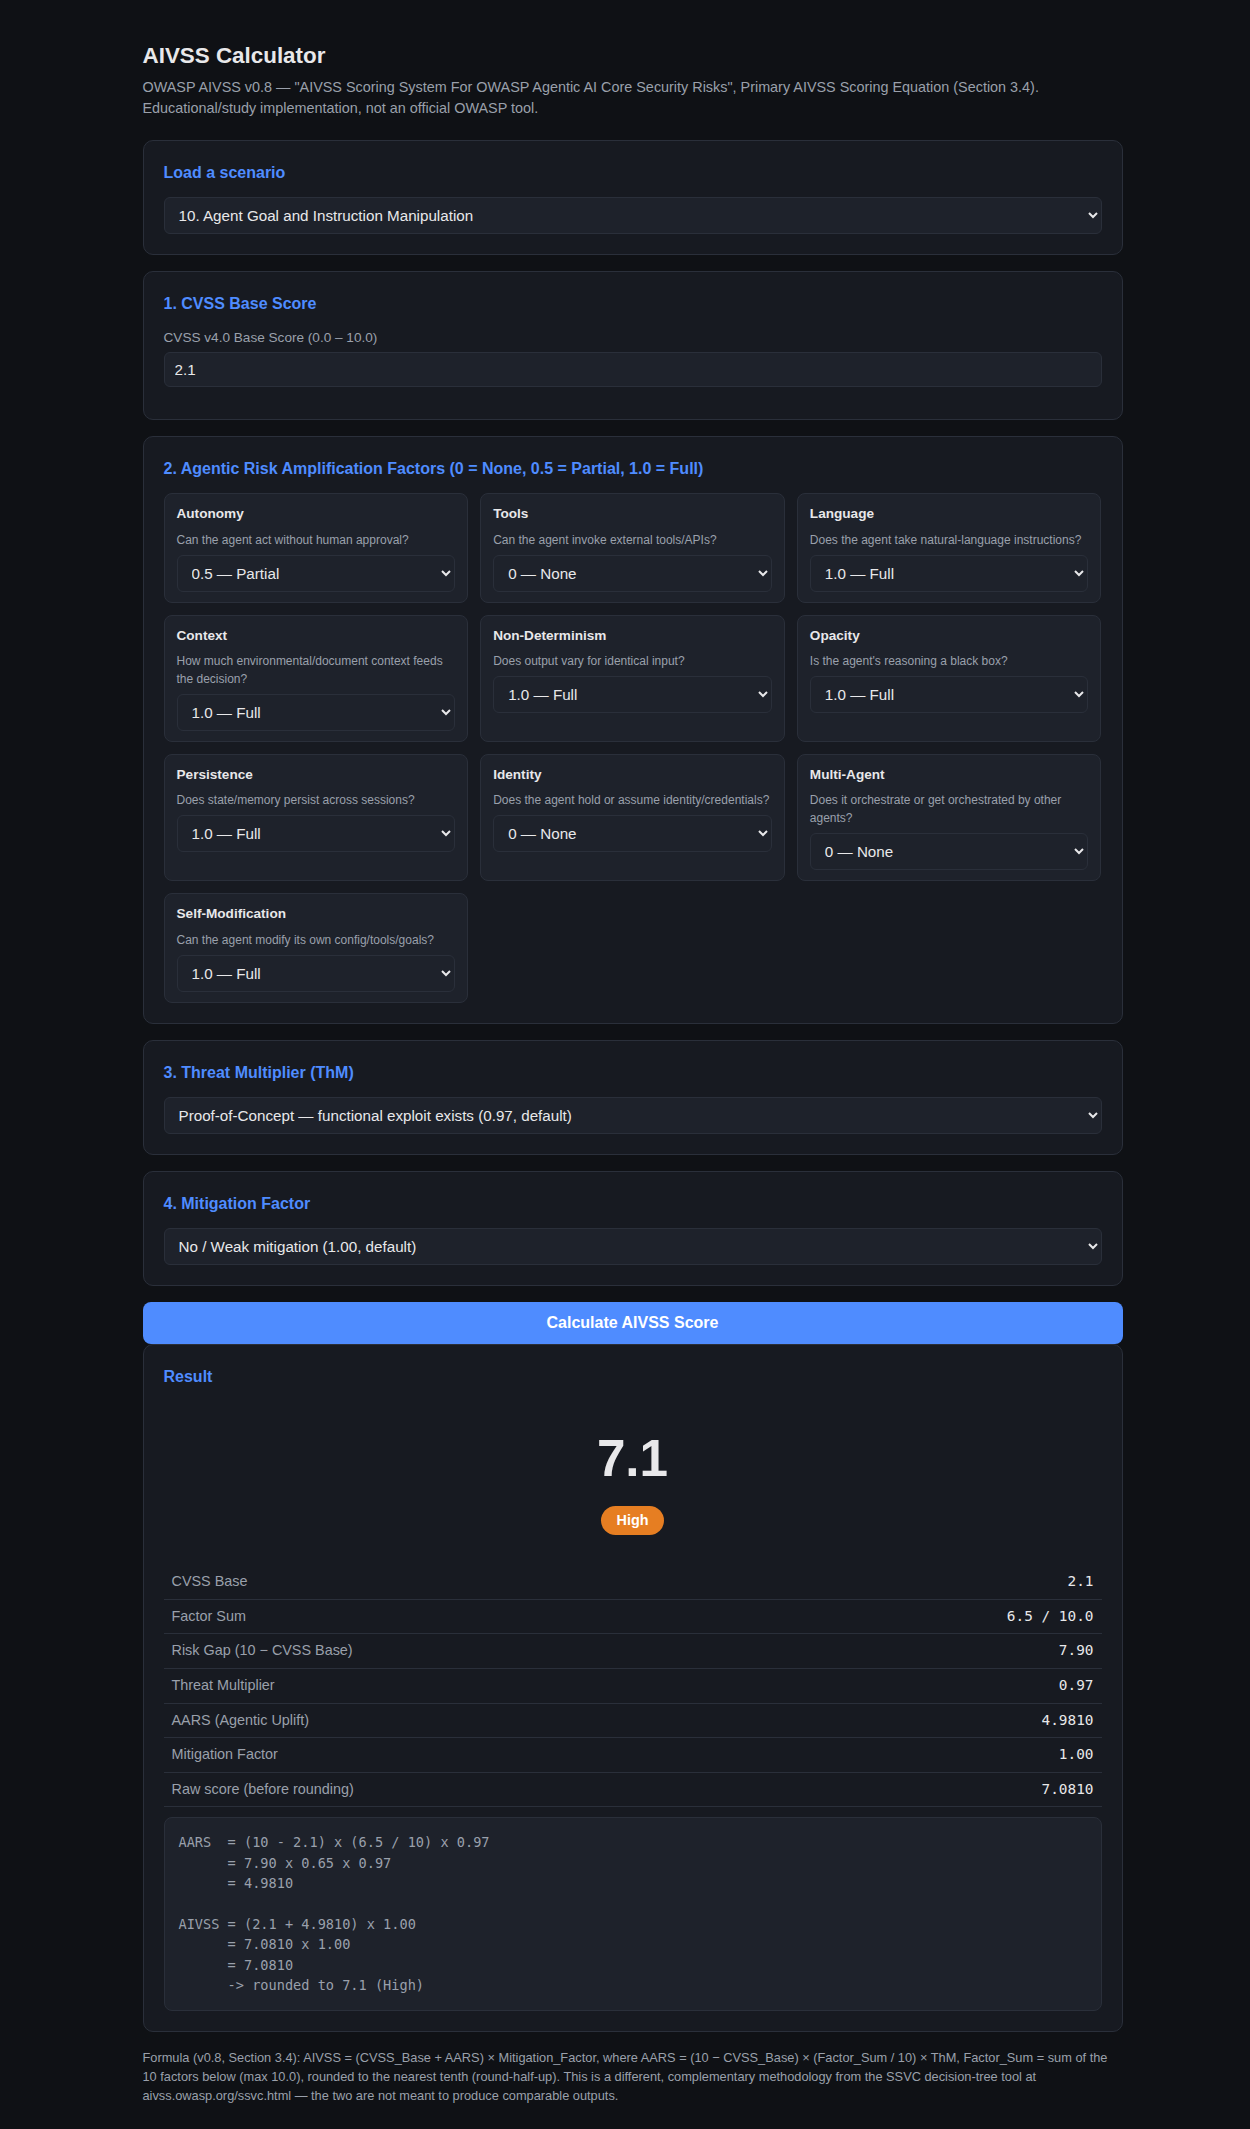
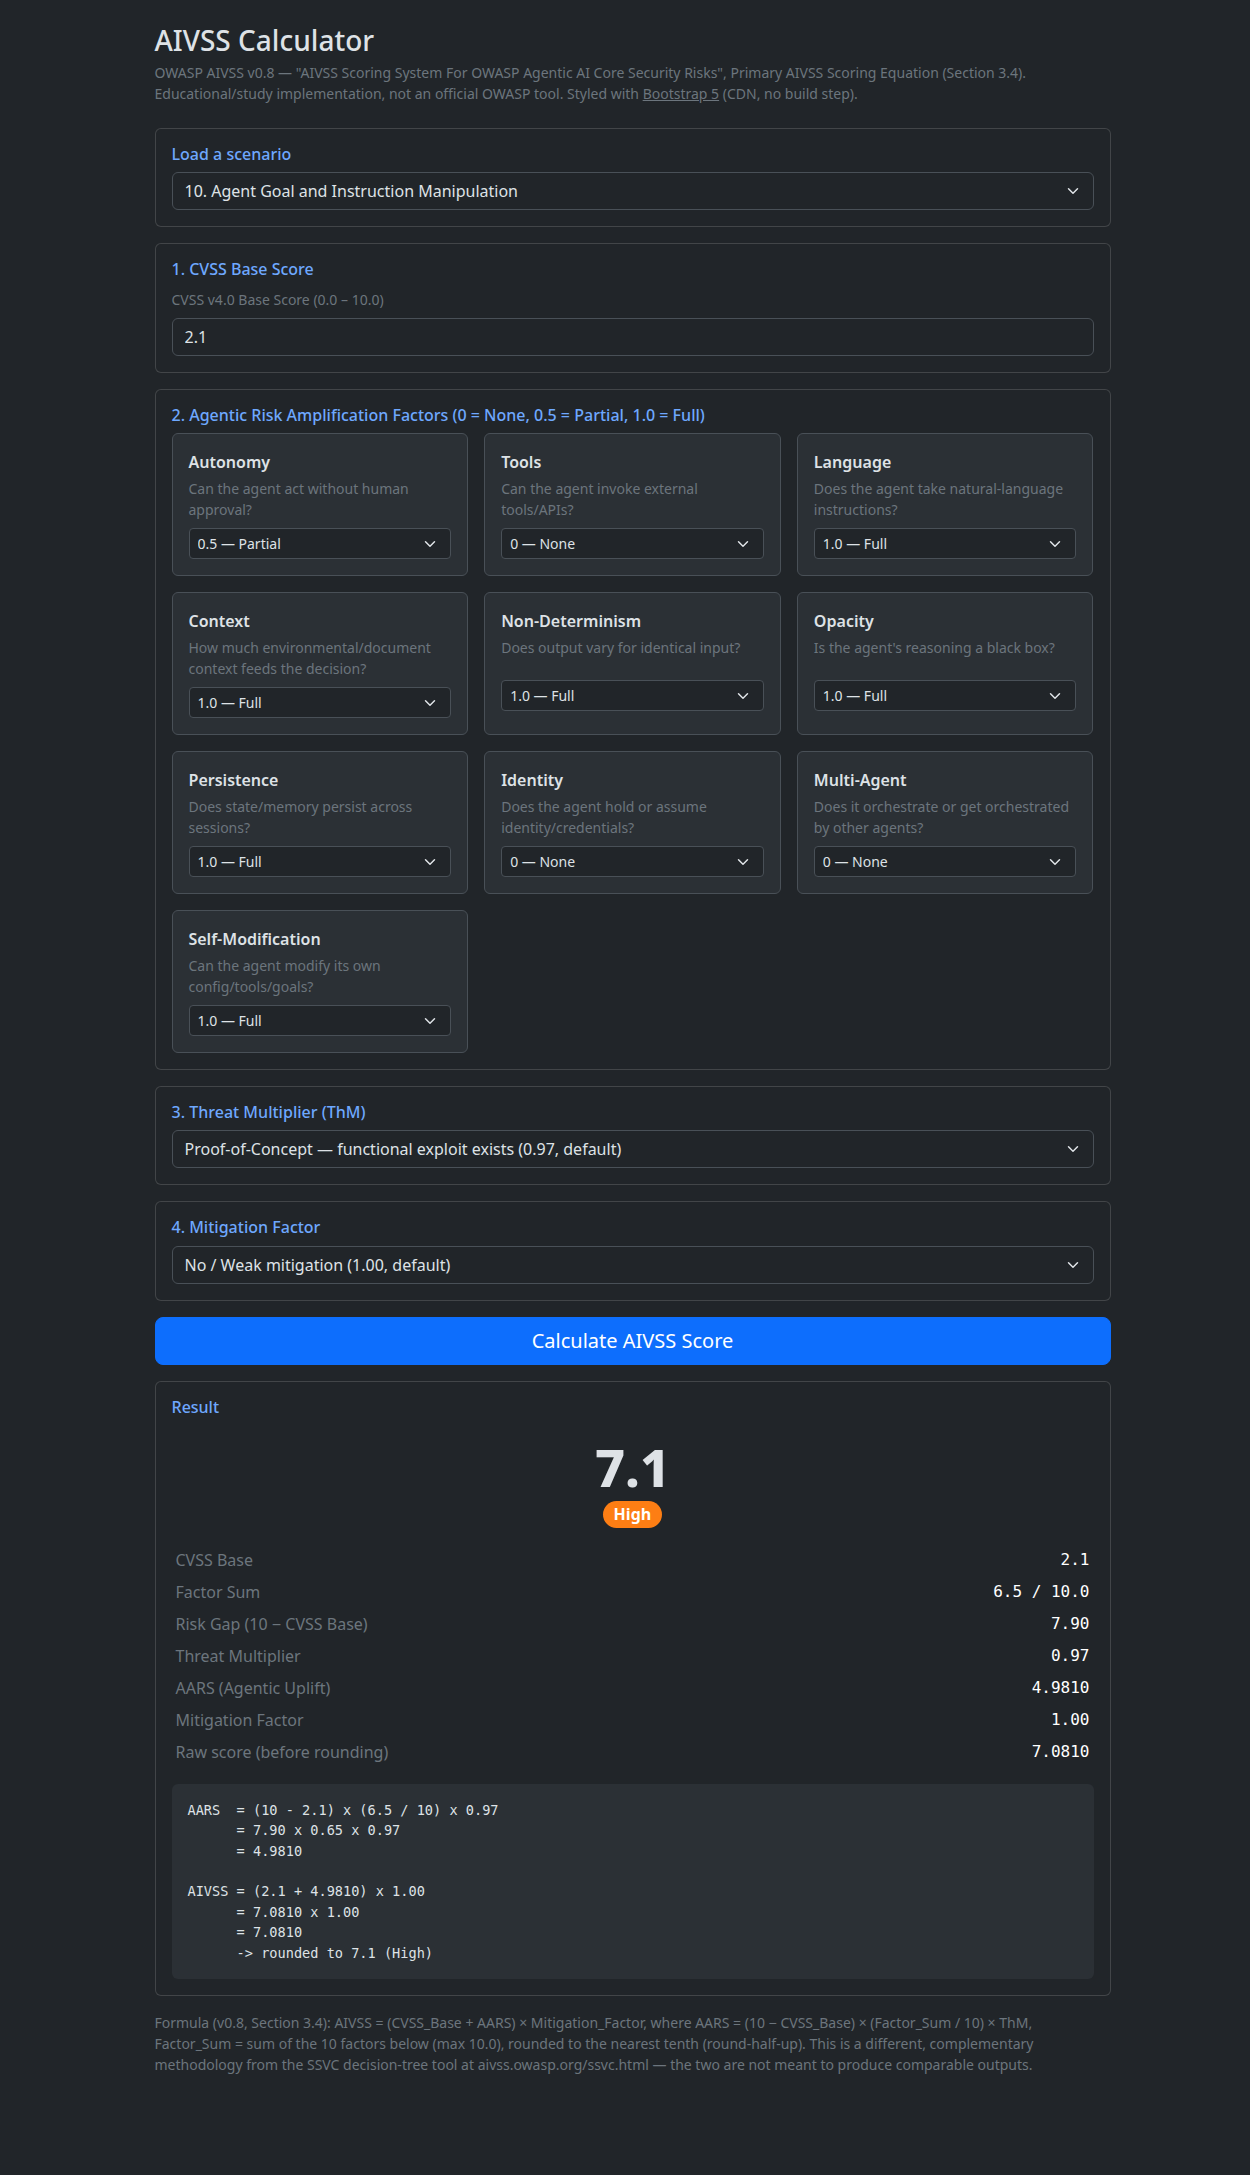
Restyle calculator/index.html with Bootstrap 5
Replaced hand-written custom CSS with Bootstrap 5 (CDN, no build step --
still a single static file, no npm/node_modules) for cards, form controls,
grid layout, badges, and the results table. calculate() and all formula
logic untouched.

Re-verified after the refactor: all 10 official scenarios still 10/10
match, and both manual-UI custom-input tests (7.1 High / 0.0 None) still
produce identical results -- confirming the restyle only changed markup,
not behavior. Recaptured all 5 index.html screenshots (01-03, 12-13) to
show the current design; screenshots unrelated to index.html (reference
site, SSVC, Streamlit, terminal captures) are untouched.

Changed region(s): [[0.0936, 0.0, 0.9048, 0.744], [0.1248, 0.713, 0.8424, 0.992], [0.8424, 0.713, 0.8736, 0.837]]

diff --git a/calculator/index.html b/calculator/index.html
@@ -1,143 +1,114 @@
 <!DOCTYPE html>
-<html lang="en">
+<html lang="en" data-bs-theme="dark">
 <head>
 <meta charset="UTF-8">
 <meta name="viewport" content="width=device-width, initial-scale=1.0">
 <title>AIVSS Calculator — Agentic AI Core Security Risks v0.8</title>
+<link href="https://cdn.jsdelivr.net/npm/bootstrap@5.3.3/dist/css/bootstrap.min.css" rel="stylesheet">
 <style>
-  :root {
-    --bg: #0f1115; --panel: #171a21; --panel2: #1e222b; --border: #2a2f3a;
-    --text: #e8e8ea; --dim: #9aa0ab; --accent: #4f8cff; --green: #2ecc71;
-    --yellow: #f1c40f; --orange: #e67e22; --red: #e74c3c;
-  }
-  * { box-sizing: border-box; }
-  body {
-    background: var(--bg); color: var(--text); font-family: -apple-system, "Segoe UI", Roboto, sans-serif;
-    margin: 0; padding: 24px; line-height: 1.5;
-  }
-  .wrap { max-width: 980px; margin: 0 auto; }
-  h1 { font-size: 1.4rem; margin-bottom: 4px; }
-  .subtitle { color: var(--dim); font-size: 0.9rem; margin-bottom: 20px; }
-  .card {
-    background: var(--panel); border: 1px solid var(--border); border-radius: 10px;
-    padding: 20px; margin-bottom: 16px;
-  }
-  .card h2 { font-size: 1rem; margin: 0 0 12px 0; color: var(--accent); }
-  label { display: block; font-size: 0.85rem; color: var(--dim); margin-bottom: 4px; }
-  select, input[type=number] {
-    background: var(--panel2); color: var(--text); border: 1px solid var(--border);
-    border-radius: 6px; padding: 8px 10px; font-size: 0.95rem; width: 100%;
-  }
-  .row { display: flex; gap: 16px; flex-wrap: wrap; margin-bottom: 12px; }
-  .row > div { flex: 1; min-width: 220px; }
-  .factors-grid { display: grid; grid-template-columns: repeat(auto-fill, minmax(230px, 1fr)); gap: 12px; }
-  .factor-item { background: var(--panel2); border: 1px solid var(--border); border-radius: 8px; padding: 10px 12px; }
-  .factor-item label { color: var(--text); font-weight: 600; margin-bottom: 6px; }
-  .factor-item .desc { color: var(--dim); font-size: 0.75rem; margin-bottom: 6px; }
-  button#calcBtn {
-    background: var(--accent); color: white; border: none; border-radius: 8px;
-    padding: 12px 24px; font-size: 1rem; font-weight: 600; cursor: pointer; width: 100%;
-  }
-  button#calcBtn:hover { filter: brightness(1.1); }
-  #results { display: none; }
-  .score-display { text-align: center; padding: 20px 0; }
-  .score-value { font-size: 3.2rem; font-weight: 800; }
-  .score-band {
-    display: inline-block; padding: 4px 16px; border-radius: 20px; font-weight: 700;
-    font-size: 0.9rem; margin-top: 8px;
-  }
-  .band-critical { background: var(--red); color: white; }
-  .band-high { background: var(--orange); color: white; }
-  .band-medium { background: var(--yellow); color: #222; }
-  .band-low { background: var(--green); color: #133; }
-  .band-none { background: #444; color: #ccc; }
-  table.breakdown { width: 100%; border-collapse: collapse; margin-top: 10px; }
-  table.breakdown td { padding: 6px 8px; border-bottom: 1px solid var(--border); font-size: 0.9rem; }
-  table.breakdown td:first-child { color: var(--dim); }
-  table.breakdown td:last-child { text-align: right; font-family: "SF Mono", Consolas, monospace; }
+  /* Only overrides Bootstrap can't express as utility classes -- everything
+     else (cards, grid, forms, badges, table) is stock Bootstrap 5. */
+  body { padding-bottom: 60px; }
+  .score-value { font-size: 3.25rem; font-weight: 800; line-height: 1; }
+  .badge-critical { background-color: #dc3545 !important; }
+  .badge-high     { background-color: #fd7e14 !important; }
+  .badge-medium   { background-color: #ffc107 !important; color: #222 !important; }
+  .badge-low      { background-color: #198754 !important; }
+  .badge-none     { background-color: #6c757d !important; }
   .formula-box {
-    background: var(--panel2); border: 1px solid var(--border); border-radius: 8px;
-    padding: 14px; font-family: "SF Mono", Consolas, monospace; font-size: 0.85rem;
-    color: var(--dim); margin-top: 10px; white-space: pre-wrap;
+    font-family: "SF Mono", Consolas, monospace; font-size: .85rem;
+    white-space: pre-wrap;
   }
-  .note { font-size: 0.8rem; color: var(--dim); margin-top: 16px; }
+  .breakdown-table td:last-child { font-family: "SF Mono", Consolas, monospace; text-align: right; }
 </style>
 </head>
 <body>
-<div class="wrap">
-  <h1>AIVSS Calculator</h1>
-  <div class="subtitle">
+<div class="container py-4" style="max-width: 980px;">
+
+  <h1 class="h3 mb-1">AIVSS Calculator</h1>
+  <p class="text-secondary small mb-4">
     OWASP AIVSS v0.8 — "AIVSS Scoring System For OWASP Agentic AI Core Security Risks",
     Primary AIVSS Scoring Equation (Section 3.4). Educational/study implementation, not an official OWASP tool.
+    Styled with <a href="https://getbootstrap.com/" class="link-secondary" target="_blank" rel="noopener">Bootstrap 5</a> (CDN, no build step).
+  </p>
+
+  <div class="card mb-3">
+    <div class="card-body">
+      <h2 class="h6 card-title text-primary-emphasis">Load a scenario</h2>
+      <select id="scenarioSelect" class="form-select">
+        <option value="">— custom input —</option>
+      </select>
+    </div>
   </div>
 
-  <div class="card">
-    <h2>Load a scenario</h2>
-    <select id="scenarioSelect">
-      <option value="">— custom input —</option>
-    </select>
+  <div class="card mb-3">
+    <div class="card-body">
+      <h2 class="h6 card-title text-primary-emphasis">1. CVSS Base Score</h2>
+      <label for="cvssBase" class="form-label small text-secondary">CVSS v4.0 Base Score (0.0 – 10.0)</label>
+      <input type="number" id="cvssBase" class="form-control" min="0" max="10" step="0.1" value="5.0">
+    </div>
   </div>
 
-  <div class="card">
-    <h2>1. CVSS Base Score</h2>
-    <div class="row">
-      <div>
-        <label for="cvssBase">CVSS v4.0 Base Score (0.0 – 10.0)</label>
-        <input type="number" id="cvssBase" min="0" max="10" step="0.1" value="5.0">
+  <div class="card mb-3">
+    <div class="card-body">
+      <h2 class="h6 card-title text-primary-emphasis">2. Agentic Risk Amplification Factors (0 = None, 0.5 = Partial, 1.0 = Full)</h2>
+      <div class="row g-3" id="factorsGrid"></div>
+    </div>
+  </div>
+
+  <div class="card mb-3">
+    <div class="card-body">
+      <h2 class="h6 card-title text-primary-emphasis">3. Threat Multiplier (ThM)</h2>
+      <select id="threatMultiplier" class="form-select">
+        <option value="1.00">Attacked — actively exploited in the wild (1.00)</option>
+        <option value="0.97" selected>Proof-of-Concept — functional exploit exists (0.97, default)</option>
+        <option value="0.50">Unreported — theoretical only (0.50)</option>
+      </select>
+    </div>
+  </div>
+
+  <div class="card mb-3">
+    <div class="card-body">
+      <h2 class="h6 card-title text-primary-emphasis">4. Mitigation Factor</h2>
+      <select id="mitigationFactor" class="form-select">
+        <option value="1.00" selected>No / Weak mitigation (1.00, default)</option>
+        <option value="0.83">Partial mitigation (0.83)</option>
+        <option value="0.67">Strong mitigation (0.67)</option>
+      </select>
+    </div>
+  </div>
+
+  <button id="calcBtn" class="btn btn-primary btn-lg w-100 mb-3" onclick="calculate()">Calculate AIVSS Score</button>
+
+  <div class="card mb-3 d-none" id="results">
+    <div class="card-body">
+      <h2 class="h6 card-title text-primary-emphasis">Result</h2>
+      <div class="text-center py-3">
+        <div class="score-value" id="scoreValue">–</div>
+        <span class="badge rounded-pill fs-6 mt-2" id="scoreBand">–</span>
       </div>
+      <table class="table table-sm table-borderless breakdown-table">
+        <tbody>
+          <tr><td class="text-secondary">CVSS Base</td><td id="outCvssBase"></td></tr>
+          <tr><td class="text-secondary">Factor Sum</td><td id="outFactorSum"></td></tr>
+          <tr><td class="text-secondary">Risk Gap (10 − CVSS Base)</td><td id="outRiskGap"></td></tr>
+          <tr><td class="text-secondary">Threat Multiplier</td><td id="outThM"></td></tr>
+          <tr><td class="text-secondary">AARS (Agentic Uplift)</td><td id="outAars"></td></tr>
+          <tr><td class="text-secondary">Mitigation Factor</td><td id="outMitigation"></td></tr>
+          <tr><td class="text-secondary">Raw score (before rounding)</td><td id="outRaw"></td></tr>
+        </tbody>
+      </table>
+      <pre class="formula-box bg-body-tertiary rounded p-3 mb-0" id="formulaBox"></pre>
     </div>
   </div>
 
-  <div class="card">
-    <h2>2. Agentic Risk Amplification Factors (0 = None, 0.5 = Partial, 1.0 = Full)</h2>
-    <div class="factors-grid" id="factorsGrid"></div>
-  </div>
-
-  <div class="card">
-    <h2>3. Threat Multiplier (ThM)</h2>
-    <select id="threatMultiplier">
-      <option value="1.00">Attacked — actively exploited in the wild (1.00)</option>
-      <option value="0.97" selected>Proof-of-Concept — functional exploit exists (0.97, default)</option>
-      <option value="0.50">Unreported — theoretical only (0.50)</option>
-    </select>
-  </div>
-
-  <div class="card">
-    <h2>4. Mitigation Factor</h2>
-    <select id="mitigationFactor">
-      <option value="1.00" selected>No / Weak mitigation (1.00, default)</option>
-      <option value="0.83">Partial mitigation (0.83)</option>
-      <option value="0.67">Strong mitigation (0.67)</option>
-    </select>
-  </div>
-
-  <button id="calcBtn" onclick="calculate()">Calculate AIVSS Score</button>
-
-  <div class="card" id="results">
-    <h2>Result</h2>
-    <div class="score-display">
-      <div class="score-value" id="scoreValue">–</div>
-      <div class="score-band" id="scoreBand">–</div>
-    </div>
-    <table class="breakdown">
-      <tr><td>CVSS Base</td><td id="outCvssBase"></td></tr>
-      <tr><td>Factor Sum</td><td id="outFactorSum"></td></tr>
-      <tr><td>Risk Gap (10 − CVSS Base)</td><td id="outRiskGap"></td></tr>
-      <tr><td>Threat Multiplier</td><td id="outThM"></td></tr>
-      <tr><td>AARS (Agentic Uplift)</td><td id="outAars"></td></tr>
-      <tr><td>Mitigation Factor</td><td id="outMitigation"></td></tr>
-      <tr><td>Raw score (before rounding)</td><td id="outRaw"></td></tr>
-    </table>
-    <div class="formula-box" id="formulaBox"></div>
-  </div>
-
-  <div class="note">
+  <p class="text-secondary small">
     Formula (v0.8, Section 3.4): AIVSS = (CVSS_Base + AARS) × Mitigation_Factor, where
     AARS = (10 − CVSS_Base) × (Factor_Sum / 10) × ThM, Factor_Sum = sum of the 10 factors below
     (max 10.0), rounded to the nearest tenth (round-half-up). This is a different, complementary
     methodology from the SSVC decision-tree tool at aivss.owasp.org/ssvc.html — the two are not
     meant to produce comparable outputs.
-  </div>
+  </p>
 </div>
 
 <script>
@@ -190,17 +161,19 @@ const SCENARIOS = [
 function buildFactorsGrid() {
   const grid = document.getElementById("factorsGrid");
   FACTORS.forEach(([key, label, desc]) => {
-    const div = document.createElement("div");
-    div.className = "factor-item";
-    div.innerHTML = `
-      <label for="f_${key}">${label}</label>
-      <div class="desc">${desc}</div>
-      <select id="f_${key}">
-        <option value="0">0 — None</option>
-        <option value="0.5">0.5 — Partial</option>
-        <option value="1">1.0 — Full</option>
-      </select>`;
-    grid.appendChild(div);
+    const col = document.createElement("div");
+    col.className = "col-md-4";
+    col.innerHTML = `
+      <div class="border rounded p-3 h-100 bg-body-tertiary">
+        <label for="f_${key}" class="form-label fw-semibold mb-1">${label}</label>
+        <div class="text-secondary small mb-2" style="min-height: 2.5em;">${desc}</div>
+        <select id="f_${key}" class="form-select form-select-sm">
+          <option value="0">0 — None</option>
+          <option value="0.5">0.5 — Partial</option>
+          <option value="1">1.0 — Full</option>
+        </select>
+      </div>`;
+    grid.appendChild(col);
   });
 }
 
@@ -231,11 +204,11 @@ function roundHalfUp(value, decimals) {
 }
 
 function severityBand(score) {
-  if (score >= 9.0) return ["Critical", "band-critical"];
-  if (score >= 7.0) return ["High", "band-high"];
-  if (score >= 4.0) return ["Medium", "band-medium"];
-  if (score > 0.0) return ["Low", "band-low"];
-  return ["None", "band-none"];
+  if (score >= 9.0) return ["Critical", "badge-critical"];
+  if (score >= 7.0) return ["High", "badge-high"];
+  if (score >= 4.0) return ["Medium", "badge-medium"];
+  if (score > 0.0) return ["Low", "badge-low"];
+  return ["None", "badge-none"];
 }
 
 function calculate() {
@@ -254,11 +227,11 @@ function calculate() {
   const score = roundHalfUp(raw, 1);
   const [bandLabel, bandClass] = severityBand(score);
 
-  document.getElementById("results").style.display = "block";
+  document.getElementById("results").classList.remove("d-none");
   document.getElementById("scoreValue").textContent = score.toFixed(1);
   const bandEl = document.getElementById("scoreBand");
   bandEl.textContent = bandLabel;
-  bandEl.className = "score-band " + bandClass;
+  bandEl.className = "badge rounded-pill fs-6 mt-2 " + bandClass;
 
   document.getElementById("outCvssBase").textContent = cvssBase.toFixed(1);
   document.getElementById("outFactorSum").textContent = factorSum.toFixed(1) + " / 10.0";

diff --git a/calculator/README.md b/calculator/README.md
@@ -3,9 +3,11 @@
 Two ways to run this repo's `aivss_kg.calculate_aivss()` formula as a web
 page:
 
-1. **`index.html`** — a self-contained static page, zero dependencies. The
-   formula is **reimplemented in JavaScript** (has to be, since a static
-   page can't import Python) — kept in sync by hand.
+1. **`index.html`** — a self-contained static page, styled with
+   **[Bootstrap 5](https://getbootstrap.com/)** (loaded from `cdn.jsdelivr.net`,
+   no npm/build step — still just open the file/serve it). The formula is
+   **reimplemented in JavaScript** (has to be, since a static page can't
+   import Python) — kept in sync by hand.
 2. **`streamlit_app.py`** — a Streamlit app that **imports and calls the
    real `aivss_kg.calculate_aivss()` function directly**. No formula is
    reimplemented; if `aivss_kg.py` ever changes, this app's output changes
@@ -83,6 +85,14 @@ call, with its raw return value shown in the expandable JSON block:
 ![example calculation result, Streamlit](test_screenshots/09_streamlit_scenario1_result.png)
 
 ## Tested — automated, and against both reference tools live
+
+**Note on `index.html`'s CSS refactor (Bootstrap 5):** switching from
+hand-written CSS to Bootstrap changed markup/classes but not the
+`calculate()` JavaScript logic. Re-ran the full 10-scenario automated check
+and both manual-UI custom-input tests below after the refactor — all still
+pass, and all screenshots involving `index.html` were recaptured to show
+the current styling (screenshots 04–06, 07–09, 10, 11, 14, 15 are unrelated
+to `index.html`'s CSS and unchanged).
 
 **1. All 10 official scenarios, automated (Playwright), against this
 repo's own `calculate_aivss()` output:**
